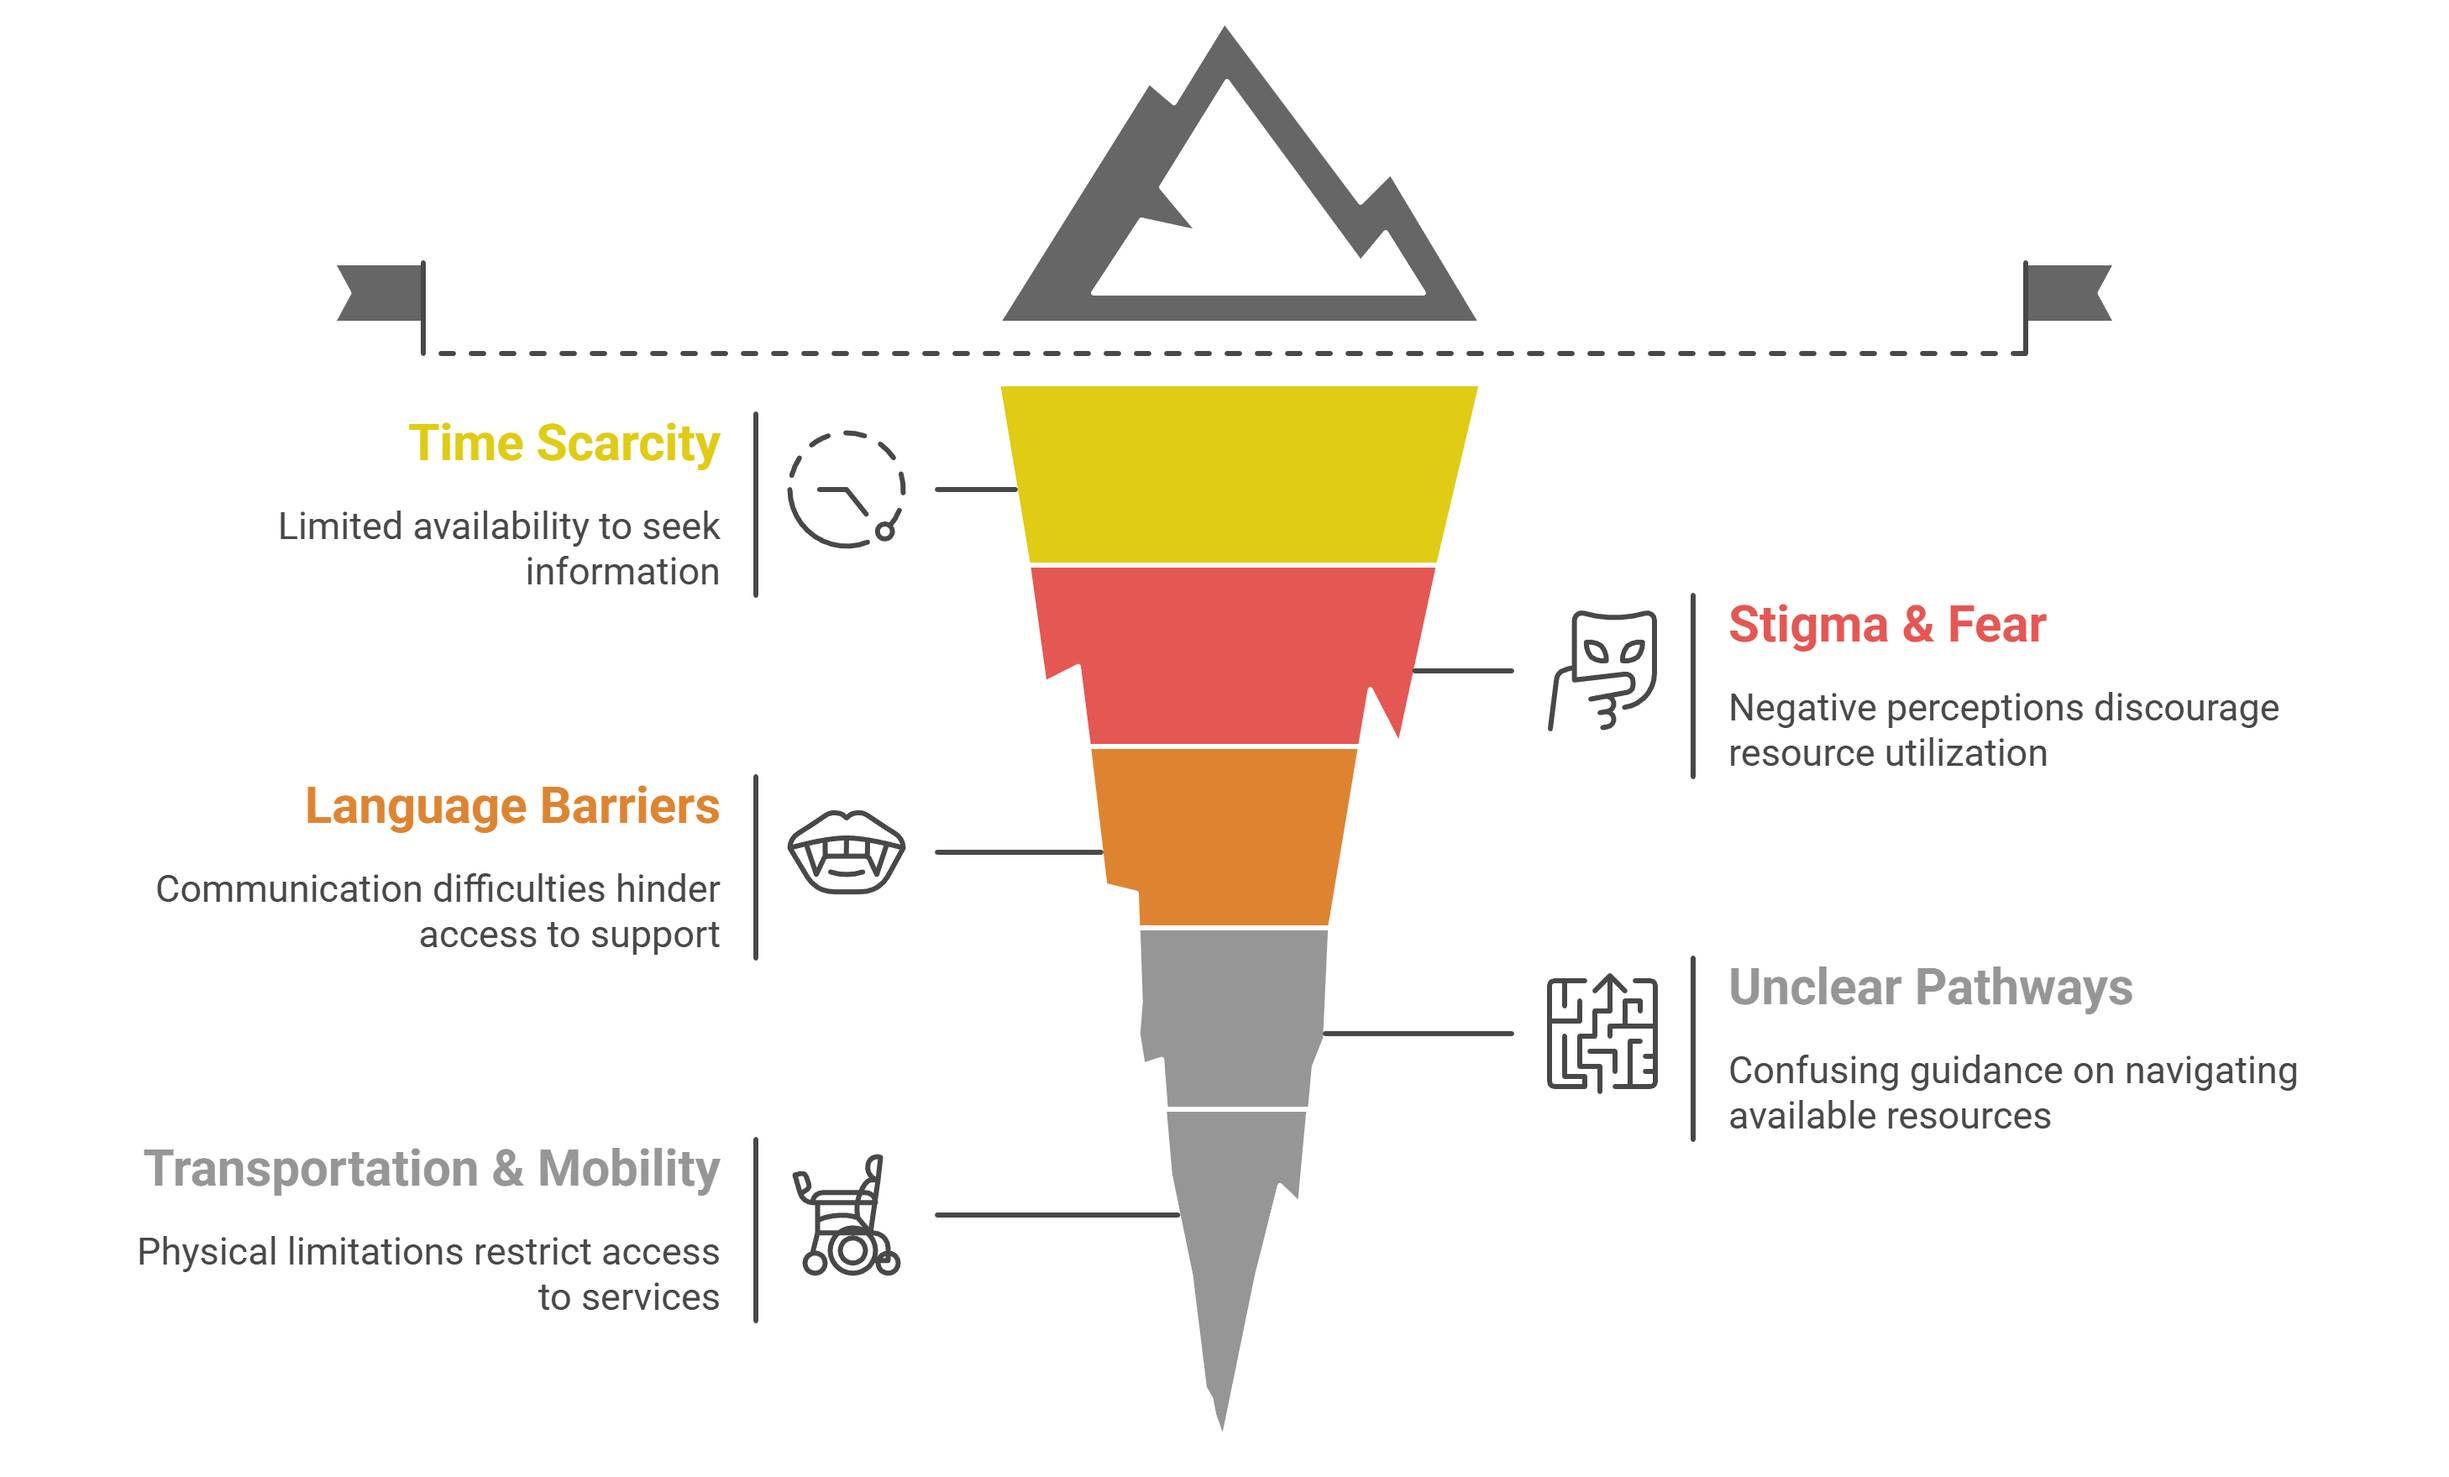
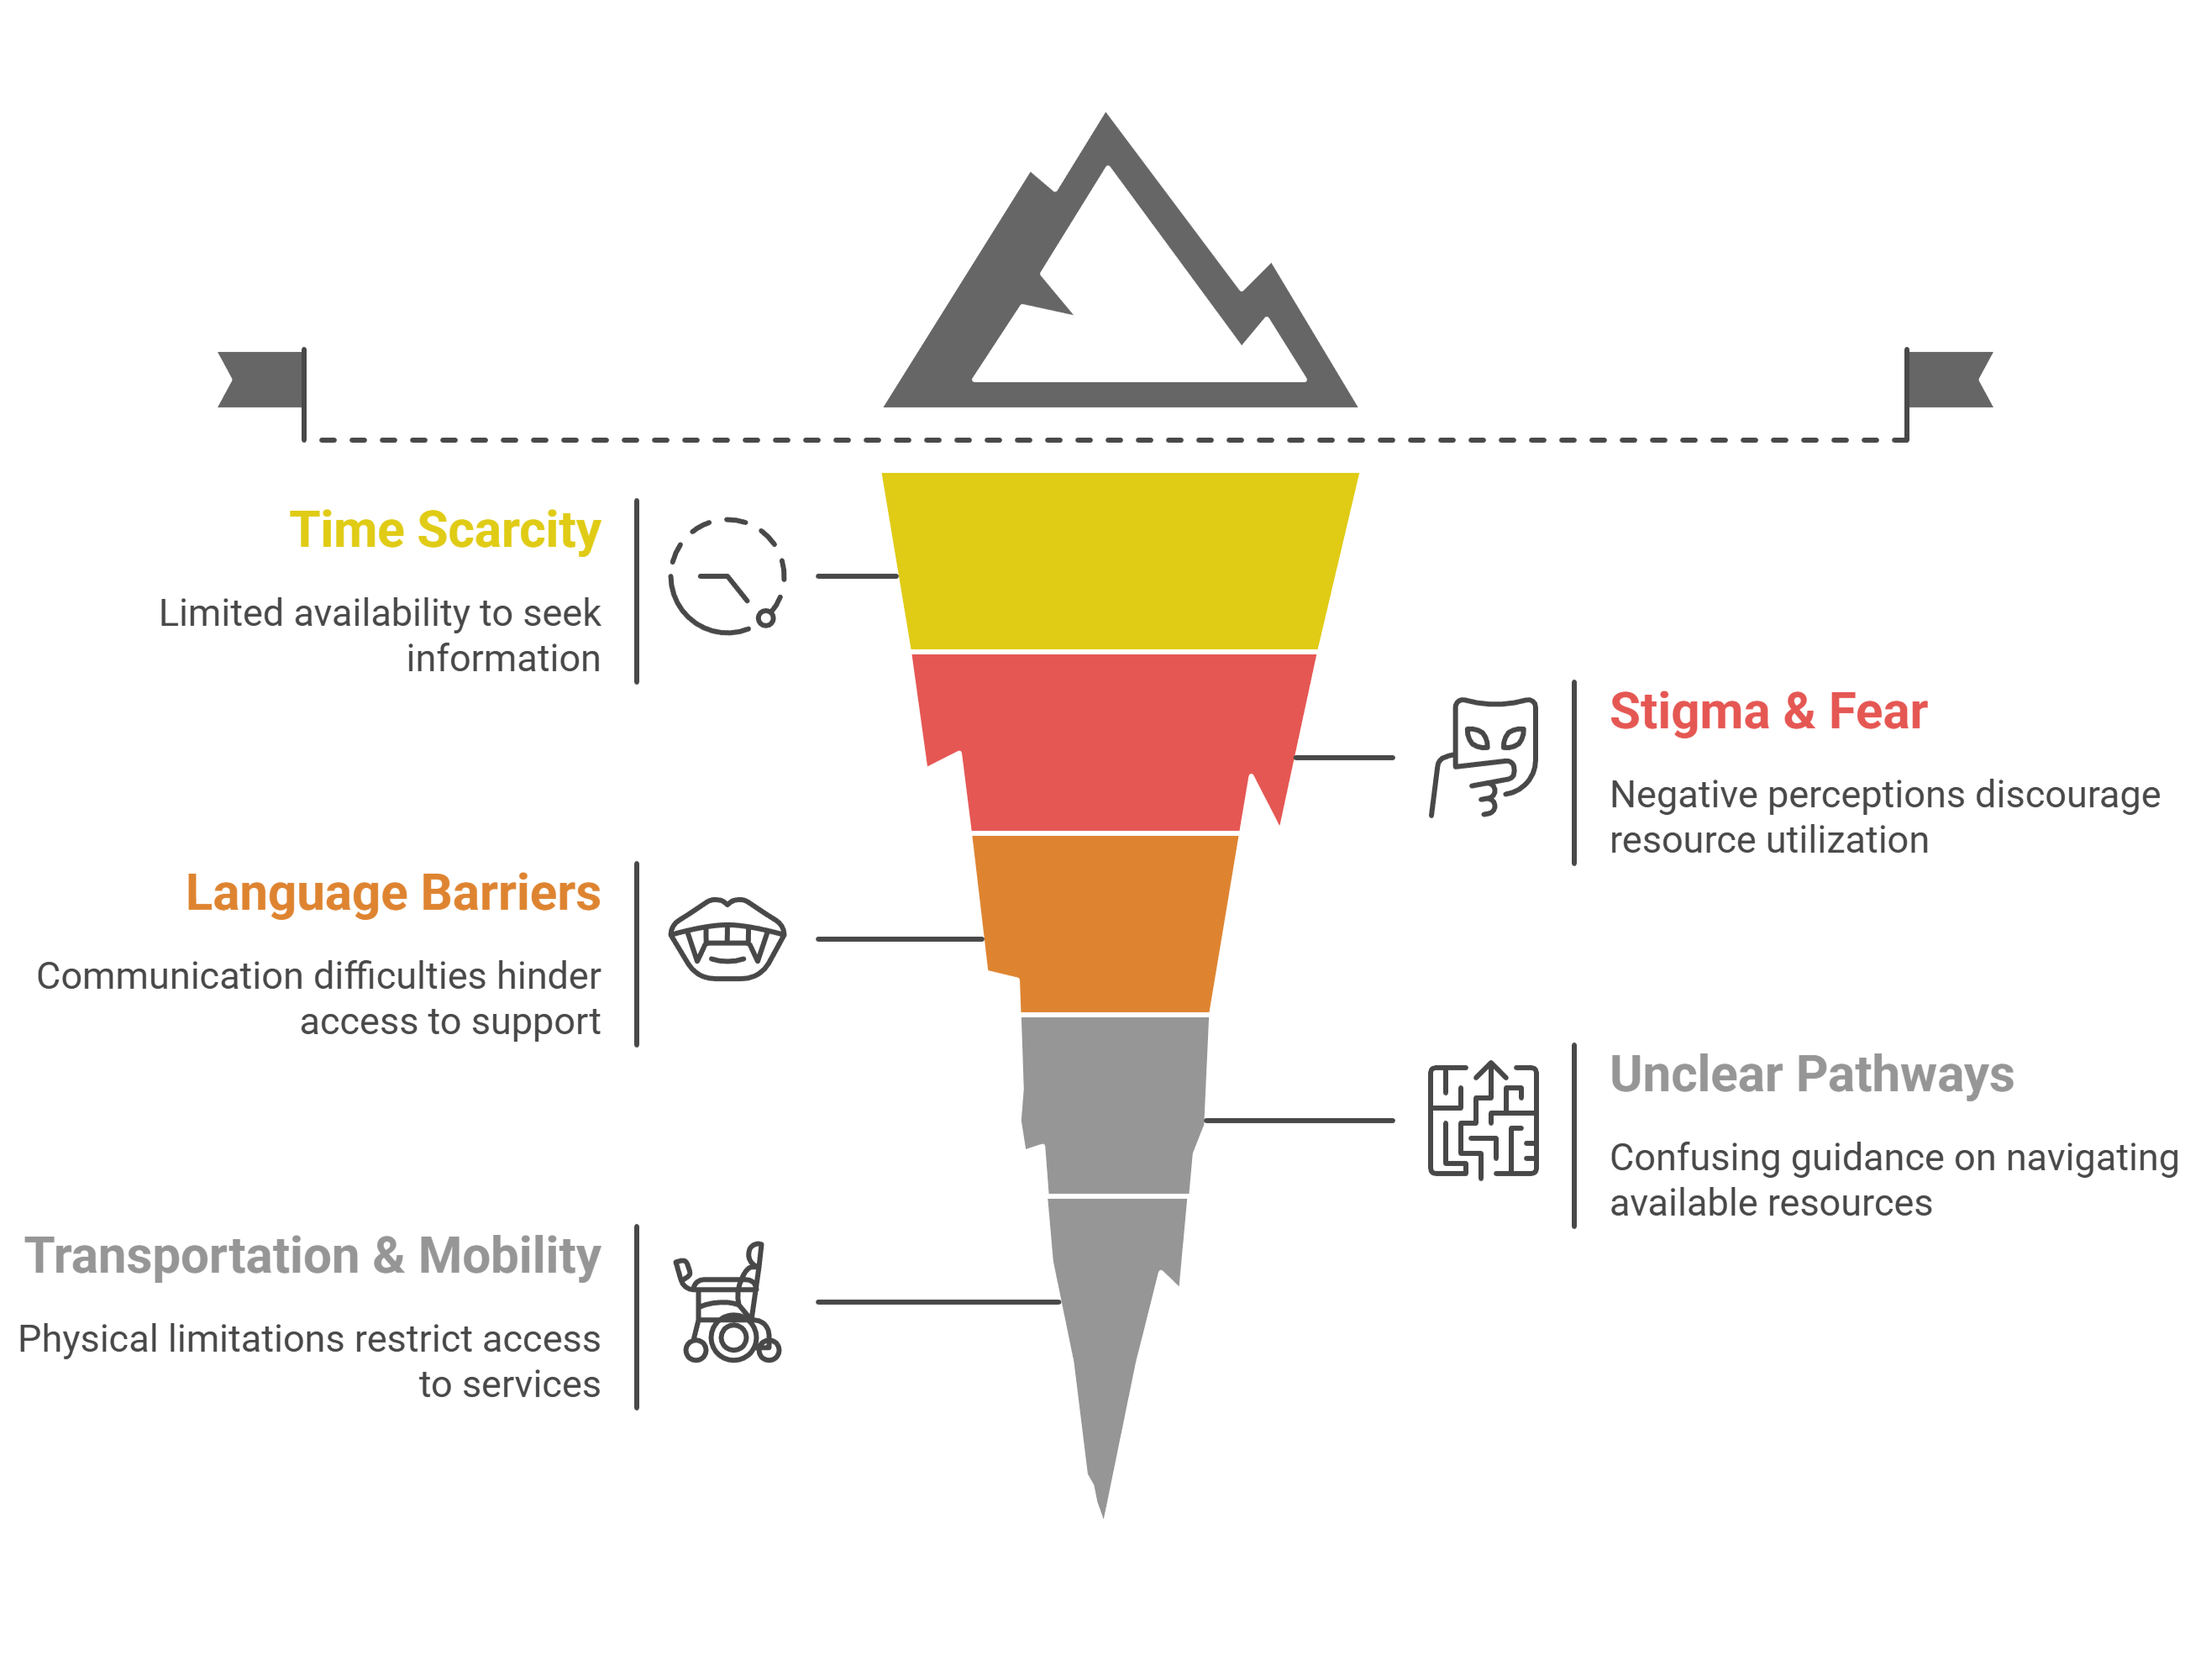
added missing files

diff --git a/app/routes/work/vr-emotion.tsx b/app/routes/work/vr-emotion.tsx
@@ -358,14 +358,14 @@ export default function VrEmotionPage() {
         <div className="px-6 md:px-10 mb-16 md:mb-24">
           <div className="max-w-5xl mx-auto">
             <Link
-              to="/work/wanderindy"
+              to="/work/secs"
               className="group block p-6 md:p-8 border border-gray-200 dark:border-gray-700 rounded-2xl hover:border-gray-900 dark:hover:border-gray-100 transition-all hover:shadow-lg"
             >
               <div className="flex items-center justify-between">
                 <div>
                   <p className="text-xs md:text-sm text-gray-500 dark:text-gray-400 mb-2">Next Project</p>
                   <h3 className="text-xl md:text-3xl font-medium text-gray-900 group-hover:text-gray-600 dark:text-gray-300 transition-colors">
-                    WanderIndy
+                    Mobility as Social Service
                   </h3>
                 </div>
                 <svg className="w-6 h-6 md:w-8 md:h-8 text-gray-400 group-hover:text-gray-900 transition-colors transform group-hover:translate-x-2" fill="none" stroke="currentColor" viewBox="0 0 24 24">
